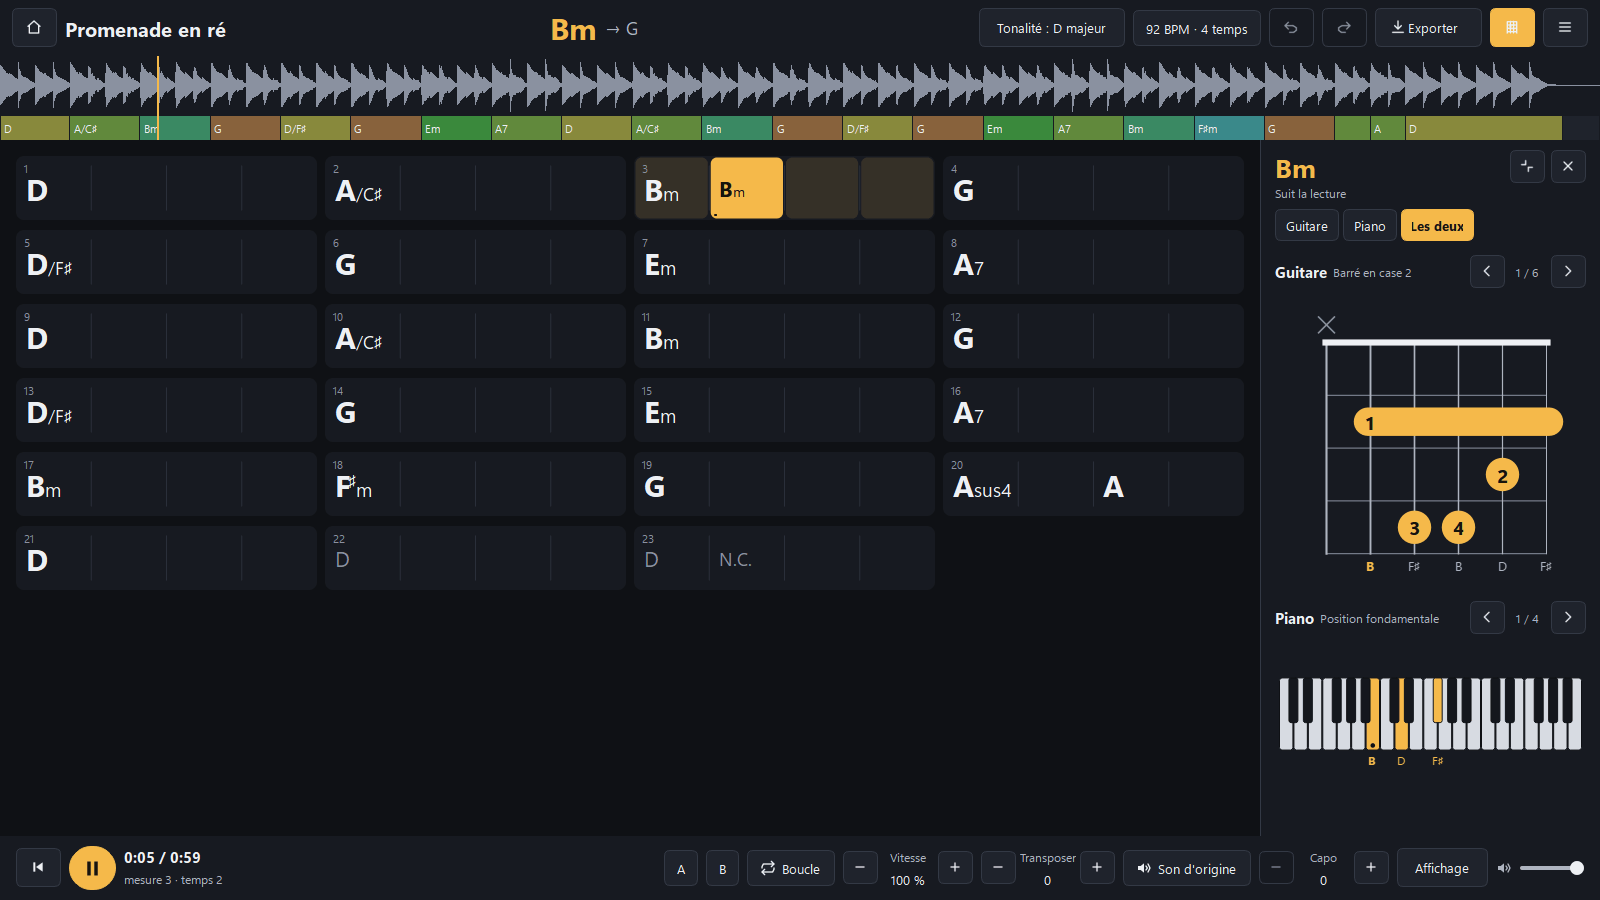
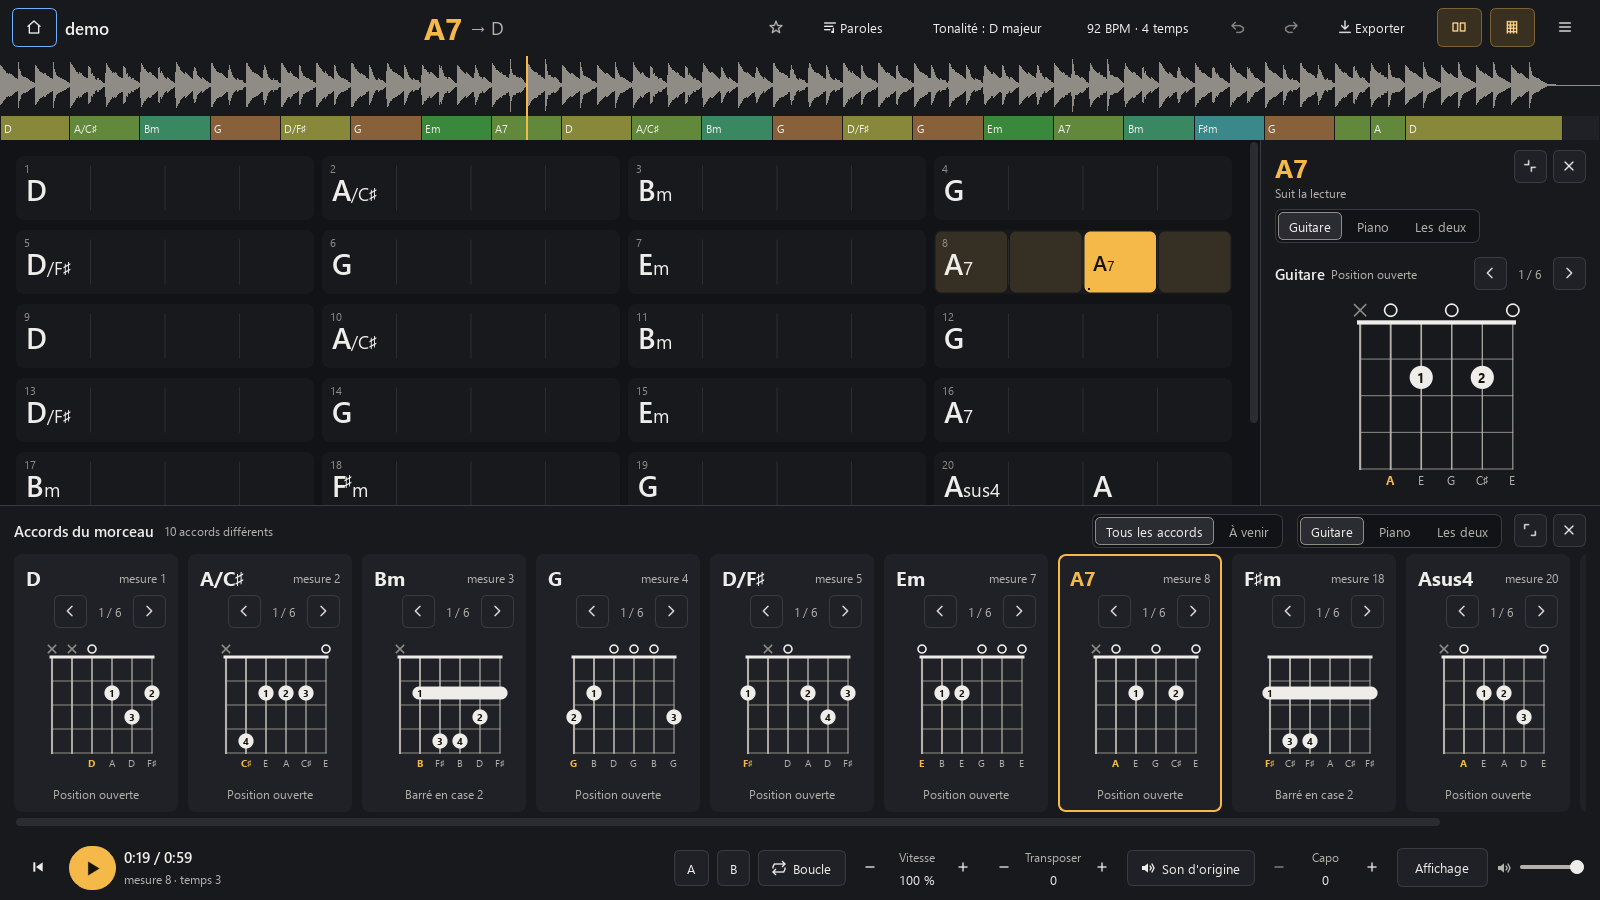
v1.5 : version, documentation et captures
- Version 1.5.
- README : trois téléchargements (installateur recommandé), conservation des données, captures v1.5.
- docs/DESIGN.md : direction, jetons, composants, avant/après, revue.
- docs/NOTES-v1.5.md, PORTABLE.md : la version installée n'est jamais portable.

diff --git a/src/localchords/__init__.py b/src/localchords/__init__.py
@@ -1,3 +1,3 @@
 """LocalChords: une grille d'accords locale, synchronisée avec la lecture."""
 
-__version__ = "1.4"
+__version__ = "1.5"

diff --git a/docs/DESIGN.md b/docs/DESIGN.md
@@ -1,0 +1,110 @@
+# Le design de LocalChords (depuis la v1.5)
+
+## La direction
+
+Un pupitre sous une lampe de scène : calme, exact, chaleureux. L'ambre éclaire ce qui joue maintenant
+(l'accord en cours, le temps, la lecture) et **la seule action principale d'un écran** (« Ajouter un
+morceau » dans la bibliothèque). Tout le reste est en graphite chaud, pour que la grille et les
+diagrammes soient ce qu'il y a de plus lumineux.
+
+Ce qu'on s'interdit : dégradés décoratifs, verre dépoli, cartes partout, grandes ombres, grands
+arrondis, animations sans fonction, icônes de familles différentes, fenêtre sans cadre. La fenêtre reste
+une fenêtre Windows normale (barre de titre, ancrage, gestionnaires de fenêtres en mosaïque).
+
+Inspirations, sans dépendance ajoutée : les principes d'[unslop](https://github.com/heydamir/unslop) (CC BY 4.0) sur le
+refus des effets génériques, la sobriété de Fluent telle que l'applique [pyside6-fluent-ui](https://github.com/ejacques11/pyside6-fluent-ui) (MIT), et les
+règles de [design-engineering-skill](https://github.com/ryktara/design-engineering-skill) (MIT) sur les jetons et la hiérarchie. Aucun code n'en est repris.
+
+## Les jetons
+
+Tout est dans [`src/localchords/ui/theme.py`](../src/localchords/ui/theme.py) : couleurs, tailles de
+texte, espacements, rayons, et la feuille de style unique de l'application. Un écran n'écrit jamais de
+couleur en dur.
+
+| Rôle | Jeton | Valeur | Contraste |
+|---|---|---|---|
+| Fond de page | `BG` | `#121316` | |
+| Barres et panneaux | `SURFACE` | `#18191D` | |
+| Contrôles | `SURFACE_2` | `#202126` | |
+| Survol, sélection douce | `SURFACE_3` | `#2B2C32` | |
+| Texte | `TEXT` | `#EEEDE9` | 15,9:1 sur le fond |
+| Texte secondaire | `TEXT_2` | `#B3B1AA` | 8,7:1 sur le fond, 7,5:1 sur un contrôle |
+| Indications, désactivé | `TEXT_3` | `#8E8C85` | 5,5:1 sur le fond |
+| Ambre | `ACCENT` | `#F5B94A` | texte sombre dessus : 10,5:1 |
+| Interrupteur allumé | `ACCENT_SOFT` + `ACCENT_TEXT` | `#3A3020` / `#FFD48A` | 9,3:1 |
+| Sélection et focus clavier | `SELECT` | `#6FB1FF` | |
+| Corrigé à la main / boucle / erreur | `EDITED` / `LOOP` / `ERROR` | `#5FD6C6` / `#8F9BFF` / `#FF8A80` | |
+
+Espacement sur une grille de 4 px (4, 8, 12, 16, 24) ; deux rayons (6 et 4 px) ; deux graisses (400 et
+600, 700 pour les noms d'accords). Échelle de texte : 12, 13, 15, 17, 20, 30, 32 px. Une seule famille
+d'icônes, dessinées au même trait dans `theme.py`.
+
+## Les composants
+
+- **Bouton discret** dans l'en-tête du morceau et pour les boutons à icône seule : sans fond au repos,
+  un fond au survol. L'en-tête n'est plus une rangée de boîtes. Un bouton à texte d'une barre de travail
+  (lecture, paroles) garde son cadre, comme ses voisins.
+- **Bouton principal** en ambre : un seul par écran. Annuler n'en est jamais un.
+- **Contrôle segmenté** pour un choix exclusif (Guitare / Piano / Les deux, Tous les accords / À venir,
+  liste / cartes) : le choix en cours est plus clair et cerné d'un trait `TEXT_3` (5,5:1 sur le fond).
+- **Bascule tonale** pour un interrupteur (panneau latéral, panneau du bas, Suivre) : allumée, elle
+  prend une lueur ambre sombre au lieu d'un aplat ambre, qui reste réservé à l'action principale.
+- **Focus clavier** : un contour bleu `SELECT` de 1 px sur tous les contrôles ; sur un bouton ambre, un
+  contour sombre de 2 px (10,5:1 sur l'ambre).
+
+## Largeur de la fenêtre
+
+La fenêtre tient dès **800 px** de large (environ 1090 px en v1.4), sans réduire le texte ni les zones
+cliquables : sous 960 px, annuler/rétablir, exporter et paroles passent en icônes (avec infobulle et nom
+accessible) et « Tonalité : » et la mesure se taisent. Sous 1000 px, la barre latérale de la
+bibliothèque se resserre. Les mêmes tailles logiques valent à 100, 125 et 150 % : à 150 %, 800 px
+logiques font 1200 px à l'écran. Sur un écran court, le panneau des accords du bas cède de la hauteur.
+Un test vérifie que chaque barre tient de 800 à 1280 px.
+
+## Avant / après
+
+Mêmes morceaux de démonstration synthétiques, mêmes tailles, rendu hors écran depuis les sources (v1.4
+à gauche ou en haut, v1.5 ensuite).
+
+### Le morceau, 1360 × 820
+
+![v1.4 : barres en boîtes, interrupteurs et choix en aplats ambre](images/design/song-1360-v1.4.png)
+![v1.5 : barres discrètes, l'ambre réservé à l'accord en cours et à la lecture, nom de la position sous chaque diagramme](images/design/song-1360-v1.5.png)
+
+L'ambre n'est plus partout : en v1.4, sept éléments ambre se disputaient l'œil (les deux interrupteurs
+de panneau, Guitare deux fois, Tous les accords, l'accord en cours, la lecture). En v1.5, l'accord en
+cours et la lecture seulement. Le nom de la position (« Barré en case 2 ») est sous le diagramme.
+
+### Fenêtre étroite
+
+![v1.4 à sa largeur minimale, 1080 px](images/design/song-narrow-v1.4.png)
+![v1.5 à 1000 px : la barre se replie en icônes, rien n'est coupé](images/design/song-narrow-v1.5.png)
+
+### La bibliothèque, 1600 × 900
+
+![v1.4 : barre latérale sans repères](images/design/library-v1.4.png)
+![v1.5 : icônes et compteurs dans la barre latérale, recherche avec icône, une seule action ambre](images/design/library-v1.5.png)
+
+### Paroles et accords, 1360 × 820
+
+![v1.4](images/design/lyrics-1360-v1.4.png)
+![v1.5 : les accords en bleu au-dessus des mots, la ligne en cours marquée par un filet ambre](images/design/lyrics-1360-v1.5.png)
+
+## Revue indépendante
+
+Une relecture séparée (produit et accessibilité, à partir des captures et du code) a relevé, avant
+publication : le focus peu visible sur les boutons ambre, un segment choisi trop peu distinct, le
+numéro de case caché par le barré, deux boutons ambre sur l'accueil et pendant l'analyse, des boutons de
+barre incohérents, l'infobulle manquante d'« Exporter » réduit à son icône, et la colonne Tempo coupée à
+900 px. Tout est corrigé dans la v1.5. Restent, déjà présents en v1.4 : les flèches des champs
+numériques peu dessinées (fenêtre Rythme), et les cartes d'accords qui défilent en hauteur quand la
+vue Grille et paroles s'ajoute sur un écran de 820 px.
+
+## Accessibilité
+
+- Contrastes : texte 15,9:1, texte secondaire 7,5:1 au moins, indications 4,8:1 au moins (WCAG AA).
+- Chaque contrôle qui prend le focus a un nom accessible, y compris les boutons réduits à une icône,
+  la grille, le ruban des accords, la liste des morceaux et la boucle.
+- L'ordre de tabulation suit l'ordre visuel.
+- Rien ne dépend de la couleur seule : l'accord en cours est aussi écrit en grand en haut de l'écran, un accord corrigé porte un point.
+- Peu de mouvement : seuls le défilement qui suit la lecture et le court fondu d'un diagramme qui change sont animés.

diff --git a/README.md b/README.md
@@ -13,15 +13,14 @@ aucun abonnement.
 **[⬇ Télécharger la dernière version](https://github.com/tadikwa/LocalChords/releases/latest)** (Windows 10
 ou 11, 64 bits, gratuit, hors ligne)
 
-![LocalChords : la grille d'accords d'un morceau, l'accord en cours en surbrillance, et les diagrammes de guitare et de piano à droite](docs/images/localchords-main.png)
+![LocalChords : la grille d'accords d'un morceau, l'accord en cours en surbrillance, le diagramme de guitare à droite et les accords du morceau dessous](docs/images/localchords-main.png)
 
 <p align="center">
   <img src="docs/images/localchords-demo.gif" width="800" alt="Lecture d'un morceau : la case en cours avance dans la grille et les diagrammes changent avec l'accord">
 </p>
 
-Les captures viennent du programme (celles des accords du morceau et de la fiche : version 1.2.1, celles des
-paroles : version 1.3, celle des paroles trouvées : version 1.3.1, celles de la bibliothèque : version 1.4,
-lancées depuis les sources, rendu hors écran), sur un morceau de démonstration
+Les captures viennent du programme (version 1.5, lancée depuis les sources, rendu hors écran ; l'animation,
+les diagrammes seuls et la fiche : version 1.2.1), sur un morceau de démonstration
 synthétique créé pour l'occasion (`scripts/demo_audio.py`) et des paroles écrites pour lui
 (`scripts/screenshot_lyrics.py`) : aucun enregistrement ni aucune parole du commerce. Les morceaux de la
 bibliothèque sont huit morceaux synthétiques aux titres et artistes inventés, analysés par le programme dans
@@ -45,7 +44,9 @@ un dossier temporaire (`scripts/library_screenshots.py`).
 - **Tous les accords du morceau** sous la grille, sans lancer la lecture, ou ceux qui arrivent.
 - **Fiche des accords en PDF** à imprimer, avec les diagrammes.
 - **Exporter** en texte, ChordPro ou PDF ; notation C D E ou Do ré mi, dièses ou bémols.
-- **Hors ligne**, sans compte ; un mode portable garde tout à côté du programme.
+- **Hors ligne**, sans compte ; un installateur sans droits d'administrateur, ou un mode portable qui garde
+  tout à côté du programme.
+- **Une fenêtre utilisable dès 800 px** de large (1.5), à côté d'une autre ou en mosaïque.
 
 ## Ma bibliothèque (1.4)
 
@@ -220,14 +221,20 @@ et le capo affichés dans le programme.
 ## Installer
 
 Sur la page de la [dernière version](https://github.com/tadikwa/LocalChords/releases/latest), dans « Assets »,
-prenez **l'un des deux** fichiers :
+prenez **l'un des trois** fichiers :
 
 | Fichier | Pour qui | Comment |
 |---|---|---|
-| `LocalChords-v1.4-portable.exe` (environ 300 Mo) | le plus simple | Téléchargez-le, double-cliquez. Un seul fichier, à garder où vous voulez. |
-| `LocalChords-v1.4-windows-x64.zip` (environ 300 Mo) | un usage quotidien | Clic droit sur le zip → « Extraire tout », puis ouvrez le dossier `LocalChords` et lancez `LocalChords.exe`. |
+| `LocalChords-Setup-v1.5.exe` (environ 225 Mo) | **recommandé** | Double-cliquez et suivez l'assistant. Pour votre compte, sans droits d'administrateur ; menu Démarrer, désinstallation depuis Paramètres → Applications ([détail](docs/INSTALLATEUR.md)). |
+| `LocalChords-v1.5-portable.exe` (environ 300 Mo) | sans installation | Téléchargez-le, double-cliquez. Un seul fichier, à garder où vous voulez. |
+| `LocalChords-v1.5-windows-x64.zip` (environ 300 Mo) | sans installation, démarrage rapide | Clic droit sur le zip → « Extraire tout », puis ouvrez le dossier `LocalChords` et lancez `LocalChords.exe`. |
 
-Même programme, mêmes résultats. Le dossier démarre en moins d'une seconde. L'exécutable unique se
+Même programme, mêmes résultats. **Vos données ne bougent pas** : quel que soit le fichier choisi, vos
+morceaux, votre bibliothèque et vos sauvegardes restent dans `%LOCALAPPDATA%\LocalChords`. Installer,
+mettre à jour ou désinstaller ne les modifie ni ne les supprime jamais ; pour une mise à jour, lancez
+simplement l'installateur de la nouvelle version.
+
+Le programme installé et le dossier démarrent en moins d'une seconde. L'exécutable unique se
 décompresse à chaque lancement : environ 4 s, et 605 Mo dans le dossier temporaire de Windows, effacés
 à la fermeture. Rien d'autre à installer : ni Python, ni carte graphique particulière, ni connexion Internet
 (sauf pour importer un lien, chercher des paroles ou télécharger un modèle de transcription).
@@ -235,11 +242,12 @@ décompresse à chaque lancement : environ 4 s, et 605 Mo dans le dossier tempor
 **Au premier lancement**, Windows SmartScreen peut afficher « Windows a protégé votre ordinateur » : le
 programme n'est pas signé. Cliquez sur « Informations complémentaires », puis « Exécuter quand même ».
 Pour vérifier le fichier, son empreinte SHA-256 figure dans `SHA256SUMS.txt` sur la page de la version
-(PowerShell : `Get-FileHash .\LocalChords-v1.4-portable.exe`).
+(PowerShell : `Get-FileHash .\LocalChords-Setup-v1.5.exe`).
 
 Pour tout garder à côté du programme (clé USB), créez un fichier vide `LocalChords.portable` à côté de
-l'exécutable : voir [docs/PORTABLE.md](docs/PORTABLE.md). Pour désinstaller, supprimez le fichier ou le
-dossier ; vos analyses restent dans `%LOCALAPPDATA%\LocalChords` tant que vous ne les effacez pas.
+l'exécutable unique ou du dossier : voir [docs/PORTABLE.md](docs/PORTABLE.md). Pour désinstaller : Paramètres
+→ Applications pour la version installée, ou supprimez le fichier ou le dossier ; vos analyses restent dans
+`%LOCALAPPDATA%\LocalChords` tant que vous ne les effacez pas vous-même.
 
 ## Utiliser en 5 étapes
 
@@ -322,6 +330,6 @@ par lien, gardés dans `%LOCALAPPDATA%\LocalChords\downloads`. Les modèles de t
 ### Pour les développeurs
 
 Construire : `scripts\build.ps1`. Tester : `.venv\Scripts\python -m pytest`. Documentation technique :
-[docs/TECHNIQUE.md](docs/TECHNIQUE.md), notes de version : [docs/NOTES-v1.4.md](docs/NOTES-v1.4.md), [docs/NOTES-v1.3.1.md](docs/NOTES-v1.3.1.md), [docs/NOTES-v1.3.md](docs/NOTES-v1.3.md), [docs/NOTES-v1.2.1.md](docs/NOTES-v1.2.1.md) et [docs/NOTES-v1.2.md](docs/NOTES-v1.2.md).
+[docs/TECHNIQUE.md](docs/TECHNIQUE.md), design : [docs/DESIGN.md](docs/DESIGN.md), installateur : [docs/INSTALLATEUR.md](docs/INSTALLATEUR.md), notes de version : [docs/NOTES-v1.5.md](docs/NOTES-v1.5.md), [docs/NOTES-v1.4.md](docs/NOTES-v1.4.md), [docs/NOTES-v1.3.1.md](docs/NOTES-v1.3.1.md), [docs/NOTES-v1.3.md](docs/NOTES-v1.3.md), [docs/NOTES-v1.2.1.md](docs/NOTES-v1.2.1.md) et [docs/NOTES-v1.2.md](docs/NOTES-v1.2.md).
 Licences : LocalChords est sous licence MIT ([LICENSE](LICENSE)) ; composants tiers dans
 [LICENCES-TIERS.md](LICENCES-TIERS.md).

diff --git a/docs/NOTES-v1.5.md b/docs/NOTES-v1.5.md
@@ -1,0 +1,48 @@
+# LocalChords v1.5 : interface revue et installateur Windows
+
+## Nouveautés
+
+- **Un installateur Windows** (`LocalChords-Setup-v1.5.exe`), recommandé pour un usage quotidien :
+  installation pour votre compte, **sans droits d'administrateur**, dans
+  `%LOCALAPPDATA%\Programs\LocalChords` (ou un autre dossier). Entrée dans le menu Démarrer, raccourci de
+  bureau au choix, projets `.lchords` ouverts d'un double-clic (au choix), désinstallation depuis
+  Paramètres → Applications. Détail dans [INSTALLATEUR.md](INSTALLATEUR.md).
+- **Une interface plus calme et plus lisible** : thème sombre chaud, une seule action principale en
+  ambre par écran, boutons discrets dans les barres, contrôles segmentés pour les vues et les
+  instruments, icônes et compteurs dans la barre latérale de la bibliothèque.
+- **Une fenêtre utilisable dès 800 px de large** (environ 1090 px en v1.4) : sur une fenêtre étroite,
+  annuler/rétablir, exporter, paroles, tonalité et tempo se replient dans les barres ; les textes et
+  les zones cliquables gardent leur taille. Pratique à côté d'une autre fenêtre, ou dans un gestionnaire
+  de fenêtres en mosaïque.
+- **Diagrammes** : le nom de la position (« barré case 2 »…) passe sous le diagramme au lieu d'être
+  coupé.
+- **Écran court** (portable à 125 % ou 150 %) : le panneau des accords du bas cède de la hauteur pour que
+  la fenêtre tienne à l'écran.
+- **Accessibilité** : la grille, le ruban des accords, la liste des morceaux et la boucle ont un nom
+  pour les lecteurs d'écran ; l'ordre de tabulation suit l'ordre visuel. Contrastes du texte de 7,5:1 à
+  15,9:1.
+
+## Vos données
+
+Aucune donnée n'est modifiée par la v1.5 : mêmes projets, même bibliothèque, mêmes préférences. Vos
+données restent dans `%LOCALAPPDATA%\LocalChords`. **L'installateur ne les modifie et ne les supprime
+jamais**, ni à l'installation, ni à la mise à jour, ni à la désinstallation ; pour les supprimer vous-même,
+voir [INSTALLATEUR.md](INSTALLATEUR.md#désinstaller). Le mode portable (`LocalChords.portable` à côté du
+programme) fonctionne comme avant ; l'installateur refuse un dossier portable.
+
+## Toujours vrai
+
+Tout reste sur votre PC. La reconnaissance des accords, la synchronisation, la lecture, la
+transcription et les formats de fichiers sont inchangés. Aucun service, aucune tâche planifiée, aucune
+télémétrie, aucune mise à jour automatique.
+
+## Fichiers
+
+- `LocalChords-Setup-v1.5.exe` : installateur (recommandé).
+- `LocalChords-v1.5-portable.exe` : exécutable unique, sans installation.
+- `LocalChords-v1.5-windows-x64.zip` : dossier, sans installation, démarrage immédiat.
+- `LocalChords-v1.5-sources-tierces.zip`, `SHA256SUMS.txt` : sources des composants tiers (FFmpeg LGPL)
+  et empreintes.
+
+Programmes non signés : SmartScreen peut demander « Informations complémentaires », puis « Exécuter
+quand même ». Vérifiez l'empreinte avec `Get-FileHash` et `SHA256SUMS.txt`.

diff --git a/docs/PORTABLE.md b/docs/PORTABLE.md
@@ -22,6 +22,9 @@ emplacements ci-dessous.
 | Classique (par défaut) | `%LOCALAPPDATA%\LocalChords` | rien à faire |
 | Portable | dossier `Data` à côté de l'exécutable | créer un fichier vide `LocalChords.portable` à côté de l'exécutable |
 
+La version installée par `LocalChords-Setup` (depuis la v1.5) est toujours en mode classique :
+l'installateur ne pose pas de marqueur et refuse un dossier qui en contient un ([INSTALLATEUR.md](INSTALLATEUR.md)).
+
 Exemple sur une clé USB :
 
 ```
